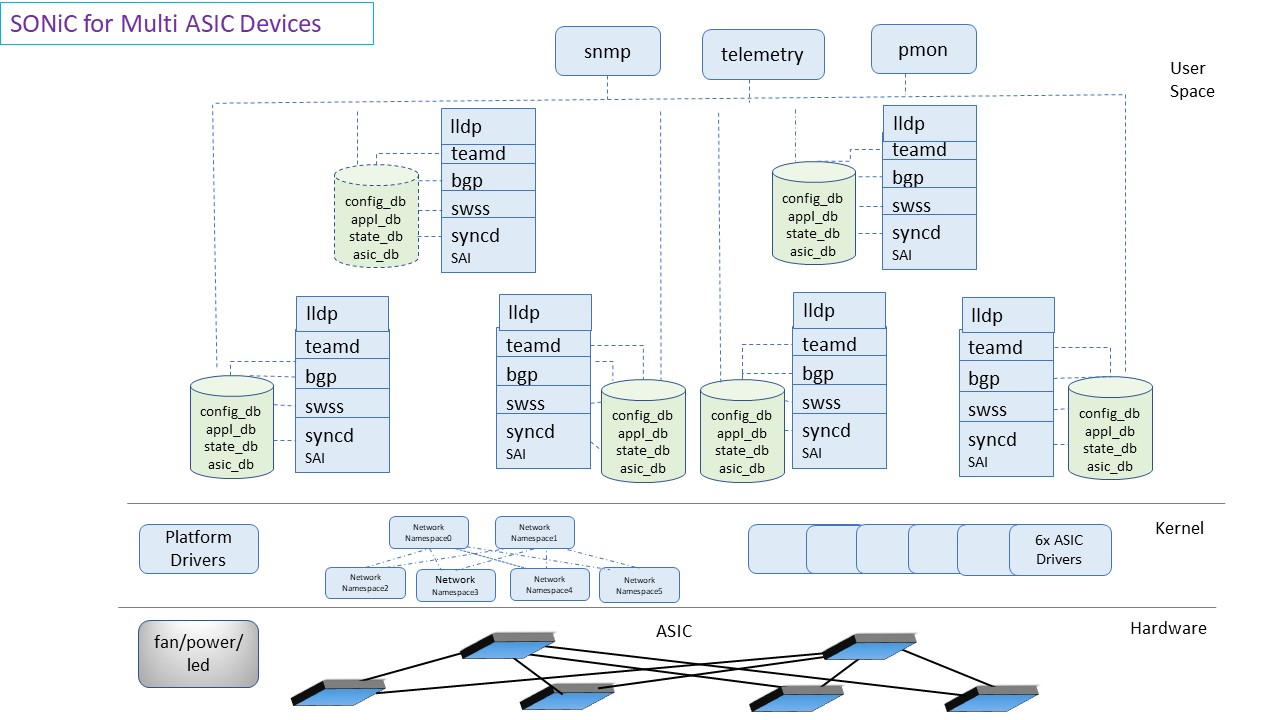
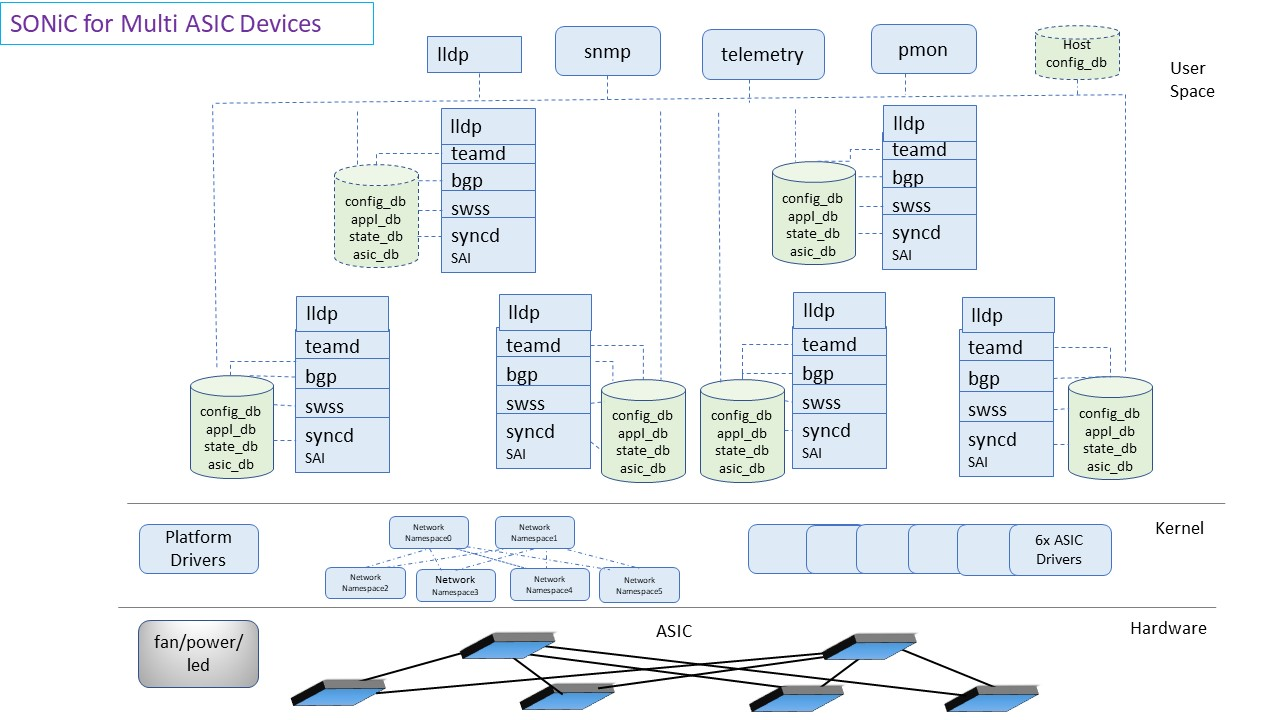
minor edits

Changed region(s): [[0.3125, 0.0306, 0.4062, 0.1222], [0.7812, 0.0306, 0.875, 0.1222]]

diff --git a/doc/multi_asic/SONiC_multi_asic_hld.md b/doc/multi_asic/SONiC_multi_asic_hld.md
@@ -79,10 +79,14 @@ The below sonic dockers are instantiated per each ASIC:
 - Each ASIC has its own SAI library and SDK instance.
 
 Below dockers are created for host and remain as single instance only:
-  snmp, telemetry, lldp, pmon
 
- - A separate database instance per ASIC
+  snmp, telemetry, pmon
+
+- A separate database instance per ASIC
 - Configuration is generated and stored per ASIC.
+
+There is an additional database and lldp instance are running on the host
+
 
 The ability to program and forward traffic independently on each ASIC also depends on the HW architecture of the ASIC.  Some ASICs used in a chassis or distributed system may not support completely independent programming/forwarding when traffic from one port to another spans multiple ASICs.
 In this document, we will focus on a multi-ASIC system where ASICs can support completely independent programming/forwarding.  What this means is that traffic entering and leaving the ASIC will be in standard IP packet format, even within the router.  The ingress/egress pipeline to forward a packet is not separated into different ASICs and so there is no dependency of data-plane information shared among different ASICs in order to forward a packet from one port to another. 
@@ -320,7 +324,7 @@ For a system with N ASICs, there is a total of N+1 config_db files:
 
 #### 2.4.3.3. Router Mac
 In a multi ASIC system, all the frontend ASICs will have the same router mac address. The frontend ASICs will use the system base mac as router mac.  
-Each Backend ASIC will have different router Mac address. The mac address of `eth0`  in the Namespace will be used as the router mac on the backend ASIC.
+Each backend ASIC will have different router Mac address. The mac address of `eth0`  in the namespace will be used as the router mac on the backend ASIC.
 
 #### 2.4.3.4. Loopback address
 The system will have 2 Loopback Interfaces
@@ -448,7 +452,8 @@ A new template file database_global.json.j2 is introduced which is used to gener
 
 #### 2.4.4.1. Infrastructure changes
 
-The dbconnector classes present in the sonic-py-swsssdk submodule viz. SoncV2Connector, ConfigDBConnector is enhanced to accept the namespace parameter  to connect to the DB in a particular namesapce. The dbconnector in the sonic-swsscommon submodule viz DBConnector too will be enhanced to accept the namespace parameter.  Please refer **"doc/database/multi_namespace_db_instances.md"** for more details. 
+The dbconnector classes present in the sonic-py-swsssdk submodule viz. SoncV2Connector, ConfigDBConnector is enhanced to accept the namespace parameter  to connect to the DB in a particular namesapce. The dbconnector in the sonic-swsscommon submodule viz DBConnector too will be enhanced to accept the namespace parameter.  
+Please refer [multi namespace db instance implementation document](https://github.com/Azure/SONiC/blob/master/doc/database/multi_namespace_db_instances.md) for more details. 
 
 ### 2.4.5. Configuration CLIs
 
